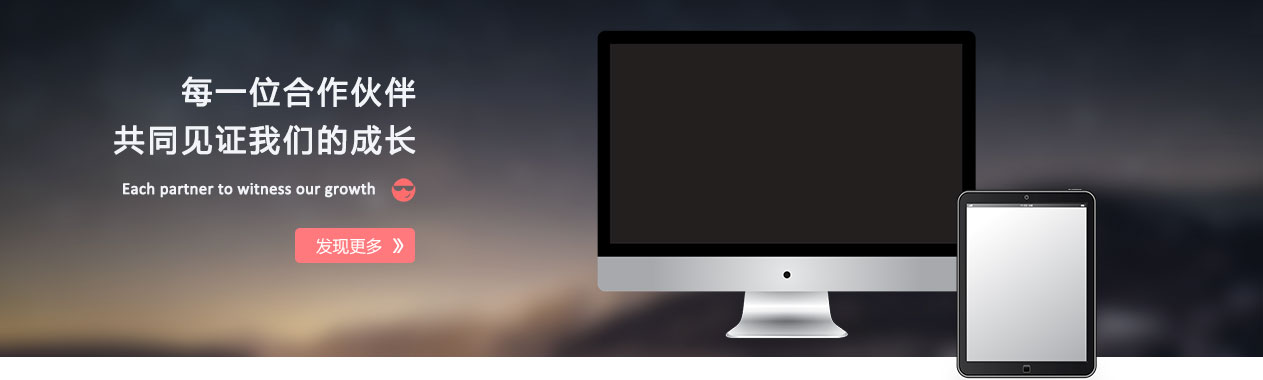
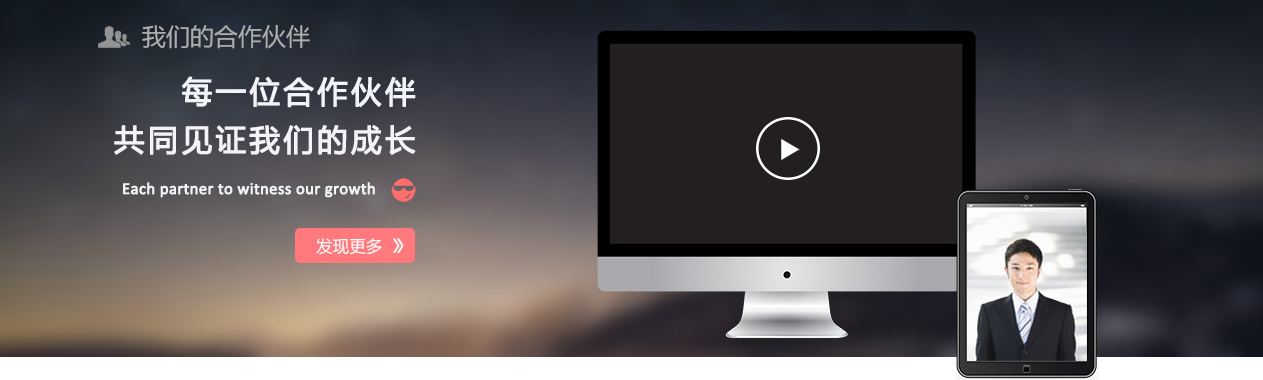
修改前台首页.

Changed region(s): [[0.7411, 0.5789, 0.8646, 0.9553], [0.0618, 0.0579, 0.247, 0.1447], [0.5867, 0.2895, 0.6485, 0.4921]]

diff --git a/src/main/webapp/static/public/css/oye.css b/src/main/webapp/static/public/css/oye.css
@@ -236,8 +236,38 @@ html,body,ul,li,a,p{
     height: 60px;
     line-height: 60px;
 }
+.main-cust{
+	background: #F1F4F9;
+	width: 100%;
+	height:auto;
+	overflow: hidden;
+}
+.main-ourteam-cont-list{
+	width:875px;
+	height:auto;
+	overflow:hidden;
+	margin:0 auto;
+}
 .main-ourteam-cont-const{
 	
+}
+.main-ourteam-cont-list-img{
+	background: url(/static/public/images/yuan.png);
+	width:130px;
+	height:129px;
+	text-align: center;
+	vertical-align: middle;
+	margin-right: 15px;
+	display: table-cell;
+	/* border-collapse:separate;
+ 	border-spacing: 5px; */
+}
+.ot{
+	width:140px;
+	float:left;
+}
+.main-ourteam-cont-list-img img{
+	/* margin-top: 55px; */
 }
 .main-ourteam-cont-const-list{
 	width: 250px;height: 485px;border-radius: 20px;background: #FC6C6C;color: #f2f2f2;float: left;margin-right: 53px;
